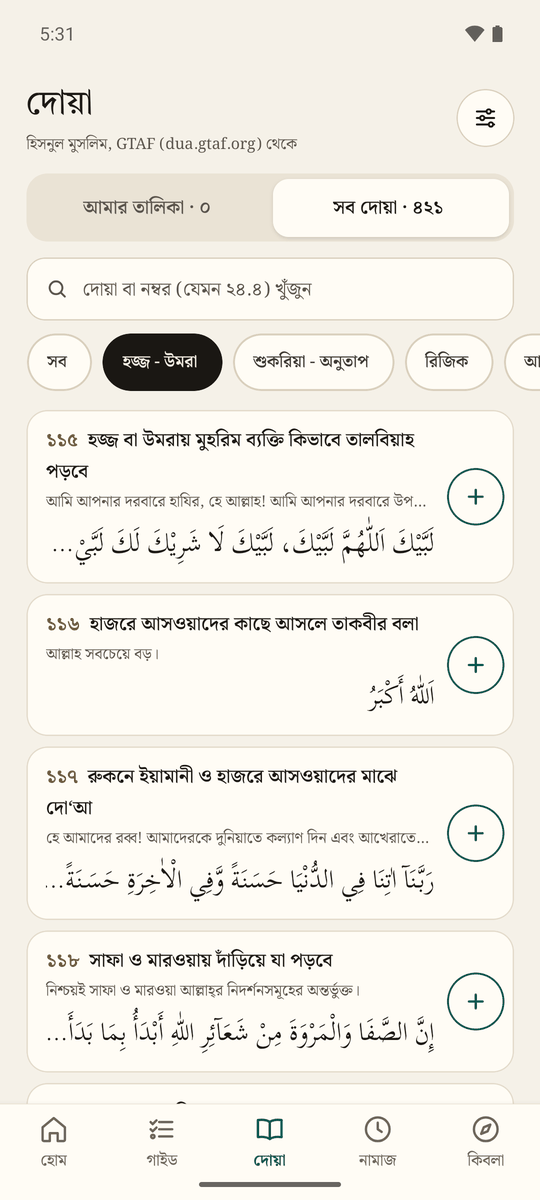
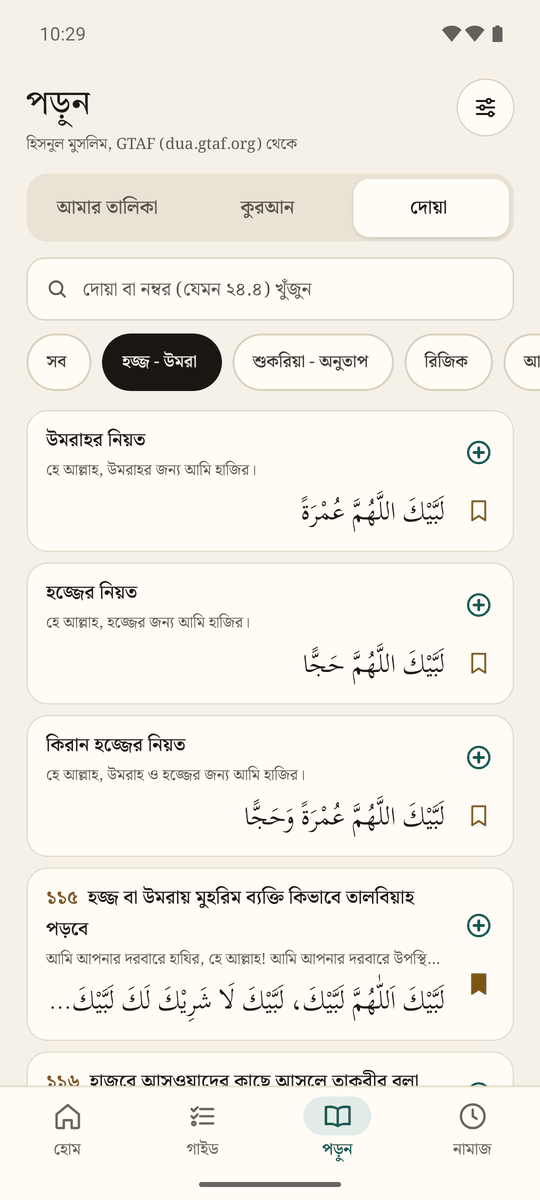
Miqat 0.2.0 page: reading lists, the Qur'an, calendar and Arabic fonts; new demo video and screenshots

diff --git a/miqat/index.html b/miqat/index.html
@@ -4,9 +4,9 @@
 <meta charset="UTF-8">
 <meta name="viewport" content="width=device-width, initial-scale=1.0">
 <title>Miqat · মীকাত — Umrah and Hajj companion</title>
-<meta name="description" content="A step-by-step companion for Umrah and Hajj: what to do now, what to recite now. Bangla first, English second. Works without the internet.">
+<meta name="description" content="A step-by-step companion for Umrah and Hajj: what to do now, what to recite now. With the Qur'an, Hisn al-Muslim duas, reading lists, prayer times, the Qibla and a Hijri calendar. Bangla first, English second. Works without the internet.">
 <meta property="og:title" content="মীকাত · Miqat — উমরাহ ও হজের গাইড">
-<meta property="og:description" content="A step-by-step guide to Umrah and Hajj, with duas, prayer times and the Qibla. Download for Android.">
+<meta property="og:description" content="A step-by-step guide to Umrah and Hajj, with the Qur'an, duas, your own reading lists, prayer times and the Qibla. Download for Android.">
 <meta property="og:image" content="https://moazmahmud.com/miqat/icon.png">
 <link rel="icon" href="icon.png" type="image/png">
 <link rel="apple-touch-icon" href="icon.png">
@@ -157,6 +157,18 @@
     font-family:var(--font-mono); font-size:12.5px; color:var(--text-dim);
     padding:6px 11px; border:1px solid var(--border); border-radius:3px;
   }
+  .feature ul + .chip-row{margin-top:18px;}
+  .try-lists{margin-top:22px; max-width:520px;}
+  .try-label{font-family:var(--font-mono); font-size:11px; color:var(--text-faint); text-transform:uppercase; letter-spacing:0.6px; margin-bottom:10px;}
+  .try-list{
+    display:block; padding:12px 16px; margin-bottom:10px; min-height:44px;
+    background:var(--bg-alt); border:1px solid var(--border); border-left:2px solid var(--accent); border-radius:4px;
+    transition:border-color 0.2s ease;
+  }
+  .try-list:hover{border-color:var(--accent);}
+  .try-list .bn{display:block; color:var(--text); font-size:17px; font-weight:600; line-height:1.5;}
+  .try-desc{display:block; color:var(--text-dim); font-size:13.5px; line-height:1.5;}
+  .source-card p strong{color:var(--text); font-weight:500;}
 
   /* SOURCES */
   .source-grid{display:grid; grid-template-columns:repeat(3,1fr); gap:24px;}
@@ -262,8 +274,8 @@
         <img class="app-icon" src="icon.png" alt="Miqat app icon" width="88" height="88">
         <h1>Miqat <span class="bn" lang="bn">মীকাত</span></h1>
       </div>
-      <p class="hero-desc">A step-by-step companion for Umrah and Hajj: <strong>what to do now, and what to recite now.</strong> Bangla first, English second. Works without the internet.</p>
-      <p class="hero-bn bn" lang="bn">উমরাহ ও হজের ধাপে ধাপে গাইড: এখন কী করবেন, কী পড়বেন, অডিওসহ দোয়া, নামাজের সময় ও কিবলা।</p>
+      <p class="hero-desc">A step-by-step companion for Umrah and Hajj: <strong>what to do now, and what to recite now.</strong> With the Qur'an, Hisn al-Muslim and your own reading lists of duas and ayahs. Bangla first, English second. Works without the internet.</p>
+      <p class="hero-bn bn" lang="bn">উমরাহ ও হজের ধাপে ধাপে গাইড: এখন কী করবেন, কী পড়বেন। সাথে কুরআন, অডিওসহ দোয়া, দোয়া ও আয়াত মিলিয়ে নিজের তালিকা, নামাজের সময়, কিবলা ও হিজরি ক্যালেন্ডার।</p>
       <div class="hero-links">
         <a href="https://drive.google.com/drive/folders/1X2UBzFI2aCc7VgsddVEdl4WWnuK6PfWz?usp=sharing" class="btn primary" rel="noopener">Download for Android →</a>
         <a href="#demo" class="btn ghost">Watch the demo</a>
@@ -282,11 +294,11 @@
         </div>
         <div class="stat-item">
           <div class="stat-val">421</div>
-          <div class="stat-label">Duas from Hisn al-Muslim</div>
+          <div class="stat-label">Duas from Hisn al-Muslim, 313 with audio</div>
         </div>
         <div class="stat-item">
-          <div class="stat-val">313</div>
-          <div class="stat-label">Duas with audio</div>
+          <div class="stat-val">114</div>
+          <div class="stat-label">Surahs, with tafsir and 14 qaris</div>
         </div>
       </div>
     </div>
@@ -302,15 +314,16 @@
           <li><strong>What do I do now?</strong>One card per step, in order, with a progress bar. Tap Done and the next step comes up.</li>
           <li><strong>What do I say now?</strong>The words for that moment, in Arabic, with transliteration, meaning, source and audio.</li>
         </ul>
-        <p>It also has to work where pilgrims actually are. The mobile network in Mina and Arafah is unreliable, so <strong>everything runs on the phone</strong>: the guides, the dua library, prayer times and the Qibla.</p>
+        <p>It also has to work where pilgrims actually are. The mobile network in Mina and Arafah is unreliable, so <strong>everything runs on the phone</strong>: the guides, the dua library, the Qur'an, prayer times and the Qibla.</p>
+        <p>And it should stay useful after the pilgrimage. Version 0.2.0 adds the whole Qur'an and <strong>reading lists</strong>: duas and any part of the Qur'an in one list, in your order, each repeated as many times as you read it, played from start to end.</p>
       </div>
       <div class="demo" id="demo">
-        <div class="demo-label">Demo · Miqat 0.1.0</div>
+        <div class="demo-label">Demo · Miqat 0.2.0</div>
         <div class="phone">
-          <iframe src="https://drive.google.com/file/d/1T8bIO4LNQbphW4JwlaHyhblDZRsNtyQw/preview" title="Miqat demo video" allow="autoplay; fullscreen" allowfullscreen loading="lazy"></iframe>
+          <iframe src="https://drive.google.com/file/d/1gRxzlDtLcgAkeFpZy46kLqoz631NMjaV/preview" title="Miqat demo video" allow="autoplay; fullscreen" allowfullscreen loading="lazy"></iframe>
         </div>
         <div class="demo-links">
-          <a href="https://drive.google.com/file/d/1T8bIO4LNQbphW4JwlaHyhblDZRsNtyQw/view" rel="noopener">Open the video ↗</a>
+          <a href="https://drive.google.com/file/d/1gRxzlDtLcgAkeFpZy46kLqoz631NMjaV/view" rel="noopener">Open the video ↗</a>
           <a href="https://drive.google.com/drive/folders/1X2UBzFI2aCc7VgsddVEdl4WWnuK6PfWz?usp=sharing" rel="noopener">Drive folder ↗</a>
         </div>
       </div>
@@ -350,17 +363,18 @@
         </ul>
       </div>
       <div class="shots">
-        <figure class="shot"><img src="screenshots/home.png" alt="Home screen with the Umrah card, the current prayer and the Qibla" width="540" height="1200" loading="lazy"><figcaption>Home</figcaption></figure>
-        <figure class="shot"><img src="screenshots/umrah-guide.png" alt="Umrah guide, step 1: ihram and intention" width="540" height="1200" loading="lazy"><figcaption>Umrah guide</figcaption></figure>
-        <figure class="shot"><img src="screenshots/hajj-guide.png" alt="Hajj guide, 8 Dhul Hijjah: Hajj ihram" width="540" height="1200" loading="lazy"><figcaption>Hajj guide</figcaption></figure>
+        <figure class="shot"><img src="screenshots/home.png" alt="Home screen with the Tawaf in progress, the current prayer and this week" width="540" height="1200" loading="lazy"><figcaption>Home</figcaption></figure>
+        <figure class="shot"><img src="screenshots/umrah-guide.png" alt="Umrah guide, step 3: entering Masjid al-Haram" width="540" height="1200" loading="lazy"><figcaption>Umrah guide</figcaption></figure>
+        <figure class="shot"><img src="screenshots/hajj-guide.png" alt="Hajj guide, 9 Dhul Hijjah: standing at Arafah" width="540" height="1200" loading="lazy"><figcaption>Hajj guide</figcaption></figure>
       </div>
     </div>
 
     <div class="feature">
       <div>
-        <span class="feature-tag">Tawaf and Sa‘i</span>
-        <h3>Round counters that show what to say where</h3>
+        <span class="feature-tag">Step details, Tawaf and Sa‘i</span>
+        <h3>Each step in full, and counters that show what to say where</h3>
         <ul>
+          <li><strong>Details</strong> on each card open the step's full page from the two booklets: what to do, what's sunnah and what to recite, with the hadith behind it.</li>
           <li>Count your rounds with a large button, and undo a mistaken tap.</li>
           <li>A diagram shows the Black Stone, the Yemeni Corner and the Hatim, or Safa, Marwah and the green lights.</li>
           <li>Only words with an authentic source: "Allāhu akbar" at the Black Stone <span class="ref">Bukhari 1613</span>, <em>Rabbanā ātinā…</em> between the Yemeni Corner and the Black Stone <span class="ref">2:201</span>, and the dhikr on Safa and Marwah <span class="ref">Muslim 1218</span>.</li>
@@ -368,7 +382,51 @@
         </ul>
       </div>
       <div class="shots">
+        <figure class="shot"><img src="screenshots/step-details.png" alt="The Arafah step in full: what to do and what's sunnah, with references" width="540" height="1200" loading="lazy"><figcaption>Step details</figcaption></figure>
         <figure class="shot"><img src="screenshots/tawaf.png" alt="Tawaf counter on round 3 of 7 with the Kaaba diagram" width="540" height="1200" loading="lazy"><figcaption>Tawaf counter</figcaption></figure>
+      </div>
+    </div>
+
+    <div class="feature">
+      <div>
+        <span class="feature-tag">Reading lists · new in 0.2.0</span>
+        <h3>Your daily reading: duas and ayahs in one list</h3>
+        <ul>
+          <li><strong>Mix duas and the Qur'an:</strong> a dua from the library, one ayah, a range of ayahs or a whole surah, in your order.</li>
+          <li><strong>Repeat each item</strong> as many times as you read it, from 1 to 1000. Play the list once or on a loop.</li>
+          <li><strong>Plays in order</strong>, with the screen following along: the list scrolls to the item, the reader marks the ayah and a dua's page marks the line. It keeps playing with the screen locked.</li>
+          <li><strong>Kept on the phone:</strong> the audio of everything in your lists is downloaded, so a list plays without the internet.</li>
+          <li><strong>Saved</strong> holds what you bookmark. Name as many other lists as you like, and drag to reorder.</li>
+          <li><strong>Share a list as a link.</strong> Whoever opens it gets the same list, with its name, and adds it with one tap.</li>
+        </ul>
+        <div class="try-lists">
+          <div class="try-label">Try a shared list</div>
+          <a href="https://moazmahmud.com/miqat/list/?ids=q1.q2-255.q2-284-286.q67.q55-1-10.q18-1-10.q36&amp;name=%E0%A6%B0%E0%A6%BE%E0%A6%A4%E0%A7%87%E0%A6%B0%20%E0%A6%86%E0%A6%AE%E0%A6%B2" class="try-list" rel="noopener"><span class="bn" lang="bn">রাতের আমল</span><span class="try-desc">Night reading: al-Fatiha, Ayat al-Kursi, the end of al-Baqarah, al-Mulk, ar-Rahman 1–10, al-Kahf 1–10, Ya-Sin</span></a>
+          <a href="https://moazmahmud.com/miqat/list/?ids=q1.q2-255.q2-285-286.q113_3.q112_3.q114_3&amp;name=%E0%A6%B0%E0%A7%81%E0%A6%95%E0%A6%87%E0%A7%9F%E0%A6%BE%E0%A6%B9" class="try-list" rel="noopener"><span class="bn" lang="bn">রুকইয়াহ</span><span class="try-desc">Ruqyah: al-Fatiha, Ayat al-Kursi, al-Baqarah 285–286, and the three Quls three times each</span></a>
+        </div>
+      </div>
+      <div class="shots">
+        <figure class="shot"><img src="screenshots/my-lists.png" alt="My lists: Saved and three named lists" width="540" height="1200" loading="lazy"><figcaption>My lists</figcaption></figure>
+        <figure class="shot"><img src="screenshots/list.png" alt="A reading list of ayahs and duas, each with its repeat count, playing" width="540" height="1200" loading="lazy"><figcaption>A list playing</figcaption></figure>
+        <figure class="shot"><img src="screenshots/shared-list.png" alt="A shared list opened from a link, ready to add" width="540" height="1200" loading="lazy"><figcaption>Opened from a link</figcaption></figure>
+      </div>
+    </div>
+
+    <div class="feature">
+      <div>
+        <span class="feature-tag">The Qur'an · new in 0.2.0</span>
+        <h3>The whole Qur'an, with translation, tafsir and recitation</h3>
+        <ul>
+          <li><strong>All 114 surahs</strong> in the Uthmani script, or in the IndoPak script with the Hafezi or Kolkata font.</li>
+          <li><strong>Translation</strong> in Bangla (Abu Bakr Zakaria) or English (Saheeh International), with the translators' notes.</li>
+          <li><strong>Tafsir:</strong> al-Mukhtasar in Bangla and English is on the phone. Ahsanul Bayaan and Ibn Kathir load from Quran.com and stay once read.</li>
+          <li><strong>Recitation</strong> ayah by ayah from 14 qaris, among them the imams of the Haram, Alafasy, Abdul Basit, Husary and Minshawi. Download a surah to hear it offline.</li>
+          <li><strong>Search</strong> by surah name, number or ayah (<span class="ref">2:255</span>). Share a surah or an ayah as a link.</li>
+        </ul>
+      </div>
+      <div class="shots">
+        <figure class="shot"><img src="screenshots/quran-reader.png" alt="Qur'an reader at Ayat al-Kursi with the Bangla translation" width="540" height="1200" loading="lazy"><figcaption>Reader</figcaption></figure>
+        <figure class="shot"><img src="screenshots/quran-tafsir.png" alt="Tafsir Ahsanul Bayaan on 2:201" width="540" height="1200" loading="lazy"><figcaption>Tafsir</figcaption></figure>
       </div>
     </div>
 
@@ -381,30 +439,31 @@
           <li><strong>Audio for 313 duas.</strong> Each line highlights while it plays. The guide's duas download on first launch and stay on the phone.</li>
           <li><strong>Memorize mode</strong> blurs the text while the audio is paused. Tap a line to reveal it and play from there.</li>
           <li><strong>Search</strong> by words or by Hisn al-Muslim number.</li>
-          <li><strong>My list:</strong> add duas from the library, drag to reorder, swipe to remove, play them all in order, and share the list or a single dua as a link.</li>
+          <li><strong>Bookmark</strong> a dua to keep it in Saved, add it to any list, or share it as a link.</li>
         </ul>
       </div>
       <div class="shots">
         <figure class="shot"><img src="screenshots/dua.png" alt="The Talbiyah with Arabic, transliteration, meaning and source" width="540" height="1200" loading="lazy"><figcaption>Dua</figcaption></figure>
-        <figure class="shot"><img src="screenshots/duas.png" alt="Dua library filtered to Hajj and Umrah" width="540" height="1200" loading="lazy"><figcaption>Library</figcaption></figure>
-        <figure class="shot"><img src="screenshots/my-list.png" alt="My list with three duas and a Play all button" width="540" height="1200" loading="lazy"><figcaption>My list</figcaption></figure>
+        <figure class="shot"><img src="screenshots/duas.png" alt="Dua library in the Read tab" width="540" height="1200" loading="lazy"><figcaption>Library</figcaption></figure>
       </div>
     </div>
 
     <div class="feature">
       <div>
-        <span class="feature-tag">Prayer and Qibla</span>
+        <span class="feature-tag">Prayer, Qibla and calendar</span>
         <h3>Calculated on the phone, wherever you are</h3>
         <ul>
           <li><strong>Prayer times</strong> use Umm al-Qura in Saudi Arabia, and Karachi with Hanafi Asr in Bangladesh. You can change the method and switch Asr between Standard and Hanafi.</li>
           <li><strong>The day is shown as segments.</strong> Forbidden times (sunrise, zawal, sunset) appear as red rows, and Duha is always marked nafl.</li>
-          <li><strong>Reminders</strong> come at each prayer time and work offline.</li>
+          <li><strong>Reminders</strong> come at each prayer time and work offline. On Fridays, Dhuhr is called Jumu‘ah.</li>
           <li><strong>Qibla compass</strong> with the bearing and the distance to the Kaaba, and a tip to calibrate when the compass is unsure. Within 500 km of Makkah it asks for GPS, because a city's centre point gives the wrong direction that close to the Kaaba.</li>
+          <li><strong>Calendar:</strong> Hijri and Gregorian months side by side, with Ramadan, the Eids, the days of Hajj, Ashura and the white days marked. Days the schools differ on are left out.</li>
         </ul>
       </div>
       <div class="shots">
-        <figure class="shot"><img src="screenshots/prayer.png" alt="Prayer times in Makkah with Asr running and forbidden times in red" width="540" height="1200" loading="lazy"><figcaption>Prayer times</figcaption></figure>
-        <figure class="shot"><img src="screenshots/qibla.png" alt="Qibla compass pointing at 289 degrees, 5.8 km to the Kaaba" width="540" height="1200" loading="lazy"><figcaption>Qibla</figcaption></figure>
+        <figure class="shot"><img src="screenshots/prayer.png" alt="Prayer times in Makkah with Duha, marked nafl, running and forbidden times in red" width="540" height="1200" loading="lazy"><figcaption>Prayer times</figcaption></figure>
+        <figure class="shot"><img src="screenshots/qibla.png" alt="Qibla compass from Aziziyah, Makkah" width="540" height="1200" loading="lazy"><figcaption>Qibla</figcaption></figure>
+        <figure class="shot"><img src="screenshots/calendar.png" alt="Calendar with Hijri and Gregorian dates and the white days" width="540" height="1200" loading="lazy"><figcaption>Calendar</figcaption></figure>
       </div>
     </div>
 
@@ -412,16 +471,24 @@
       <div>
         <span class="feature-tag">Made for reading</span>
         <h3>Comfortable in Bangla, English and Arabic</h3>
+        <ul>
+          <li><strong>Four Arabic fonts:</strong> Scheherazade New, Noto Naskh Arabic, and the two most Bangladeshis learned to read in, <strong>Hafezi (IndoPak)</strong> and <strong>Kolkata print</strong>. With these two, the Qur'an switches to the IndoPak script, with its stop signs and ayah markers.</li>
+          <li>The Kolkata font is our own build of a 2011 font, with fixed letters and spacing and the Qur'anic signs it lacked.</li>
+        </ul>
         <div class="chip-row">
           <span class="chip">বাংলা + English</span>
           <span class="chip">Bangla digits and dates</span>
           <span class="chip">Light and dark themes</span>
           <span class="chip">Four text sizes</span>
           <span class="chip">Separate Arabic size</span>
-          <span class="chip">Scheherazade New or Noto Naskh Arabic</span>
           <span class="chip">Works offline</span>
           <span class="chip">No account</span>
         </div>
+      </div>
+      <div class="shots">
+        <figure class="shot"><img src="screenshots/quran-kolkata.png" alt="Surah al-Mulk in the Kolkata print font" width="540" height="1200" loading="lazy"><figcaption>Kolkata print</figcaption></figure>
+        <figure class="shot"><img src="screenshots/dua-indopak.png" alt="Sayyid al-Istighfar in the Hafezi (IndoPak) font" width="540" height="1200" loading="lazy"><figcaption>Hafezi</figcaption></figure>
+        <figure class="shot"><img src="screenshots/fonts.png" alt="The four Arabic fonts in Settings" width="540" height="1200" loading="lazy"><figcaption>Arabic fonts</figcaption></figure>
       </div>
     </div>
   </section>
@@ -448,6 +515,26 @@
       </div>
 
       <div class="source-card">
+        <h3>The Qur'an</h3>
+        <div class="source-meta">Text and translations, checked letter by letter</div>
+        <ul>
+          <li>Uthmani text: <a href="https://tanzil.net" rel="noopener">Tanzil</a> (CC BY 3.0, verbatim)</li>
+          <li>IndoPak text: <a href="https://quran.com" rel="noopener">Quran.com</a></li>
+          <li>Bangla: Abu Bakr Zakaria, and English: Saheeh International, with their notes, from <a href="https://quranenc.com" rel="noopener">QuranEnc</a></li>
+        </ul>
+      </div>
+
+      <div class="source-card">
+        <h3>Tafsir and recitation</h3>
+        <div class="source-meta">QuranEnc · Quran.com · EveryAyah</div>
+        <ul>
+          <li>Al-Mukhtasar in Bangla and English, from <a href="https://quranenc.com" rel="noopener">QuranEnc</a>, on the phone</li>
+          <li>Ahsanul Bayaan and Ibn Kathir from <a href="https://quran.com" rel="noopener">Quran.com</a>, kept once read</li>
+          <li>Recitation by 14 qaris, one file per ayah, from <a href="https://everyayah.com" rel="noopener">EveryAyah</a></li>
+        </ul>
+      </div>
+
+      <div class="source-card">
         <h3>Prayer times and Qibla</h3>
         <div class="source-meta">MIT license</div>
         <p><a href="https://github.com/batoulapps/adhan-js" rel="noopener">adhan-js</a> by Batoul Apps calculates the prayer times and the Qibla bearing on the phone.</p>
@@ -471,6 +558,13 @@
       </div>
 
       <div class="source-card">
+        <h3>Hafezi and Kolkata print</h3>
+        <div class="source-meta">The two styles most Bangladeshis learned to read in</div>
+        <p><strong>IndoPak Nastaleeq</strong> by <a href="https://quranwbw.com" rel="noopener">QuranWBW</a>, the font Quran.com uses.</p>
+        <p><strong>Al Qalam Kolkata Miqat</strong>, our build of the 2011 <em>Al Qalam Kolkatta Quranic font</em> by Syed Shakir ul Qadree and Ishtiaq Ali (<a href="https://alqlm.org" rel="noopener">Al Qalam</a>), with fixed letters and spacing, and the Qur'anic stop signs it lacked. Still experimental.</p>
+      </div>
+
+      <div class="source-card">
         <h3>Built with</h3>
         <div class="source-meta">Expo · React Native · TypeScript</div>
         <div class="chip-row">
@@ -480,6 +574,7 @@
           <span class="chip">expo-notifications</span>
           <span class="chip">expo-sqlite</span>
           <span class="chip">Reanimated</span>
+          <span class="chip">Gesture Handler</span>
           <span class="chip">i18next</span>
           <span class="chip">Zustand</span>
         </div>
@@ -501,9 +596,11 @@
       </div>
       <div class="note-box">
         <h3>Privacy</h3>
-        <p>There is no backend and no account. Your location, progress and dua list stay on your phone. The app connects to the internet only to:</p>
+        <p>There is no backend and no account. Your location, progress and lists stay on your phone. The app connects to the internet only to:</p>
         <ul>
           <li>download dua audio from GTAF</li>
+          <li>play or download Qur'an recitation from EveryAyah</li>
+          <li>load the online tafsirs from Quran.com</li>
           <li>check the Saudi Hijri date with Aladhan</li>
           <li>name a GPS location, using the phone's own geocoder</li>
         </ul>
@@ -536,8 +633,8 @@
           <div class="en">Android may warn you because the app isn’t from the Play Store. Choose to install anyway.</div>
         </li>
         <li>
-          <div class="bn" lang="bn">নতুন সংস্করণ এলে একইভাবে ইনস্টল করুন। আপনার দোয়ার তালিকা ও অগ্রগতি থেকে যাবে।</div>
-          <div class="en">To update, install a newer file the same way. Your dua list and progress stay.</div>
+          <div class="bn" lang="bn">নতুন সংস্করণ এলে একইভাবে ইনস্টল করুন। আপনার তালিকা ও অগ্রগতি থেকে যাবে।</div>
+          <div class="en">To update, install a newer file the same way. Your lists and progress stay.</div>
         </li>
       </ol>
     </div>
